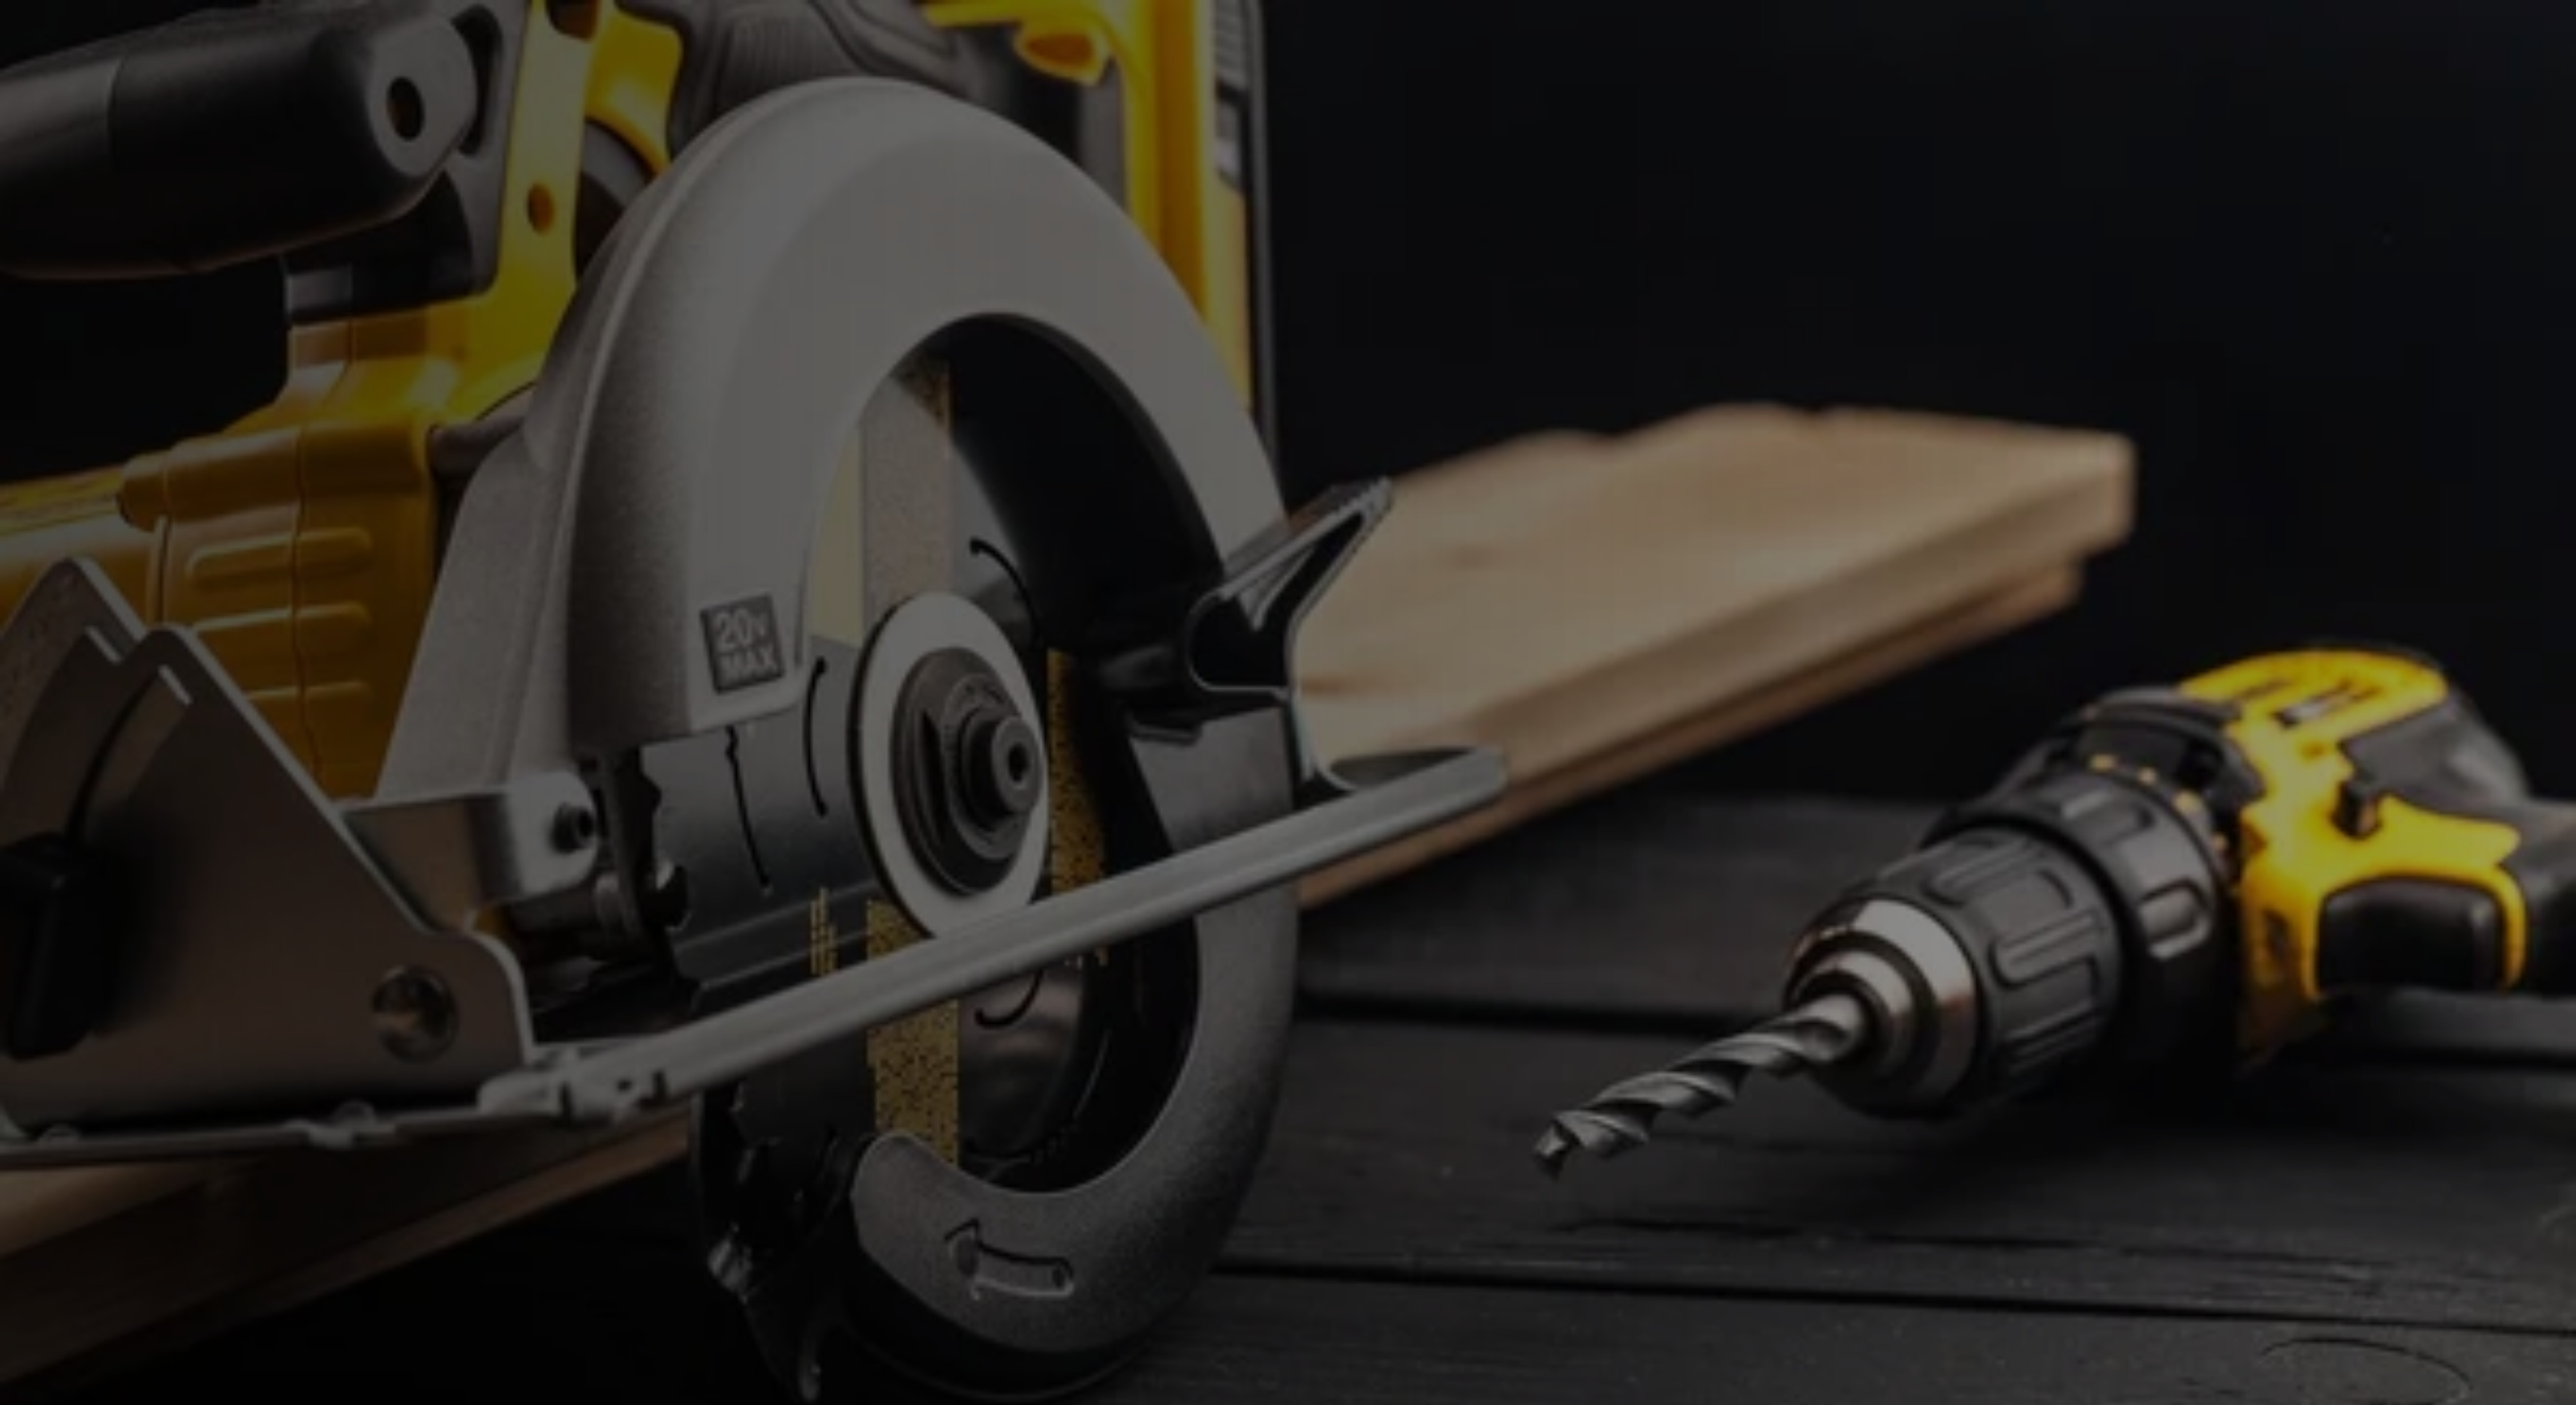
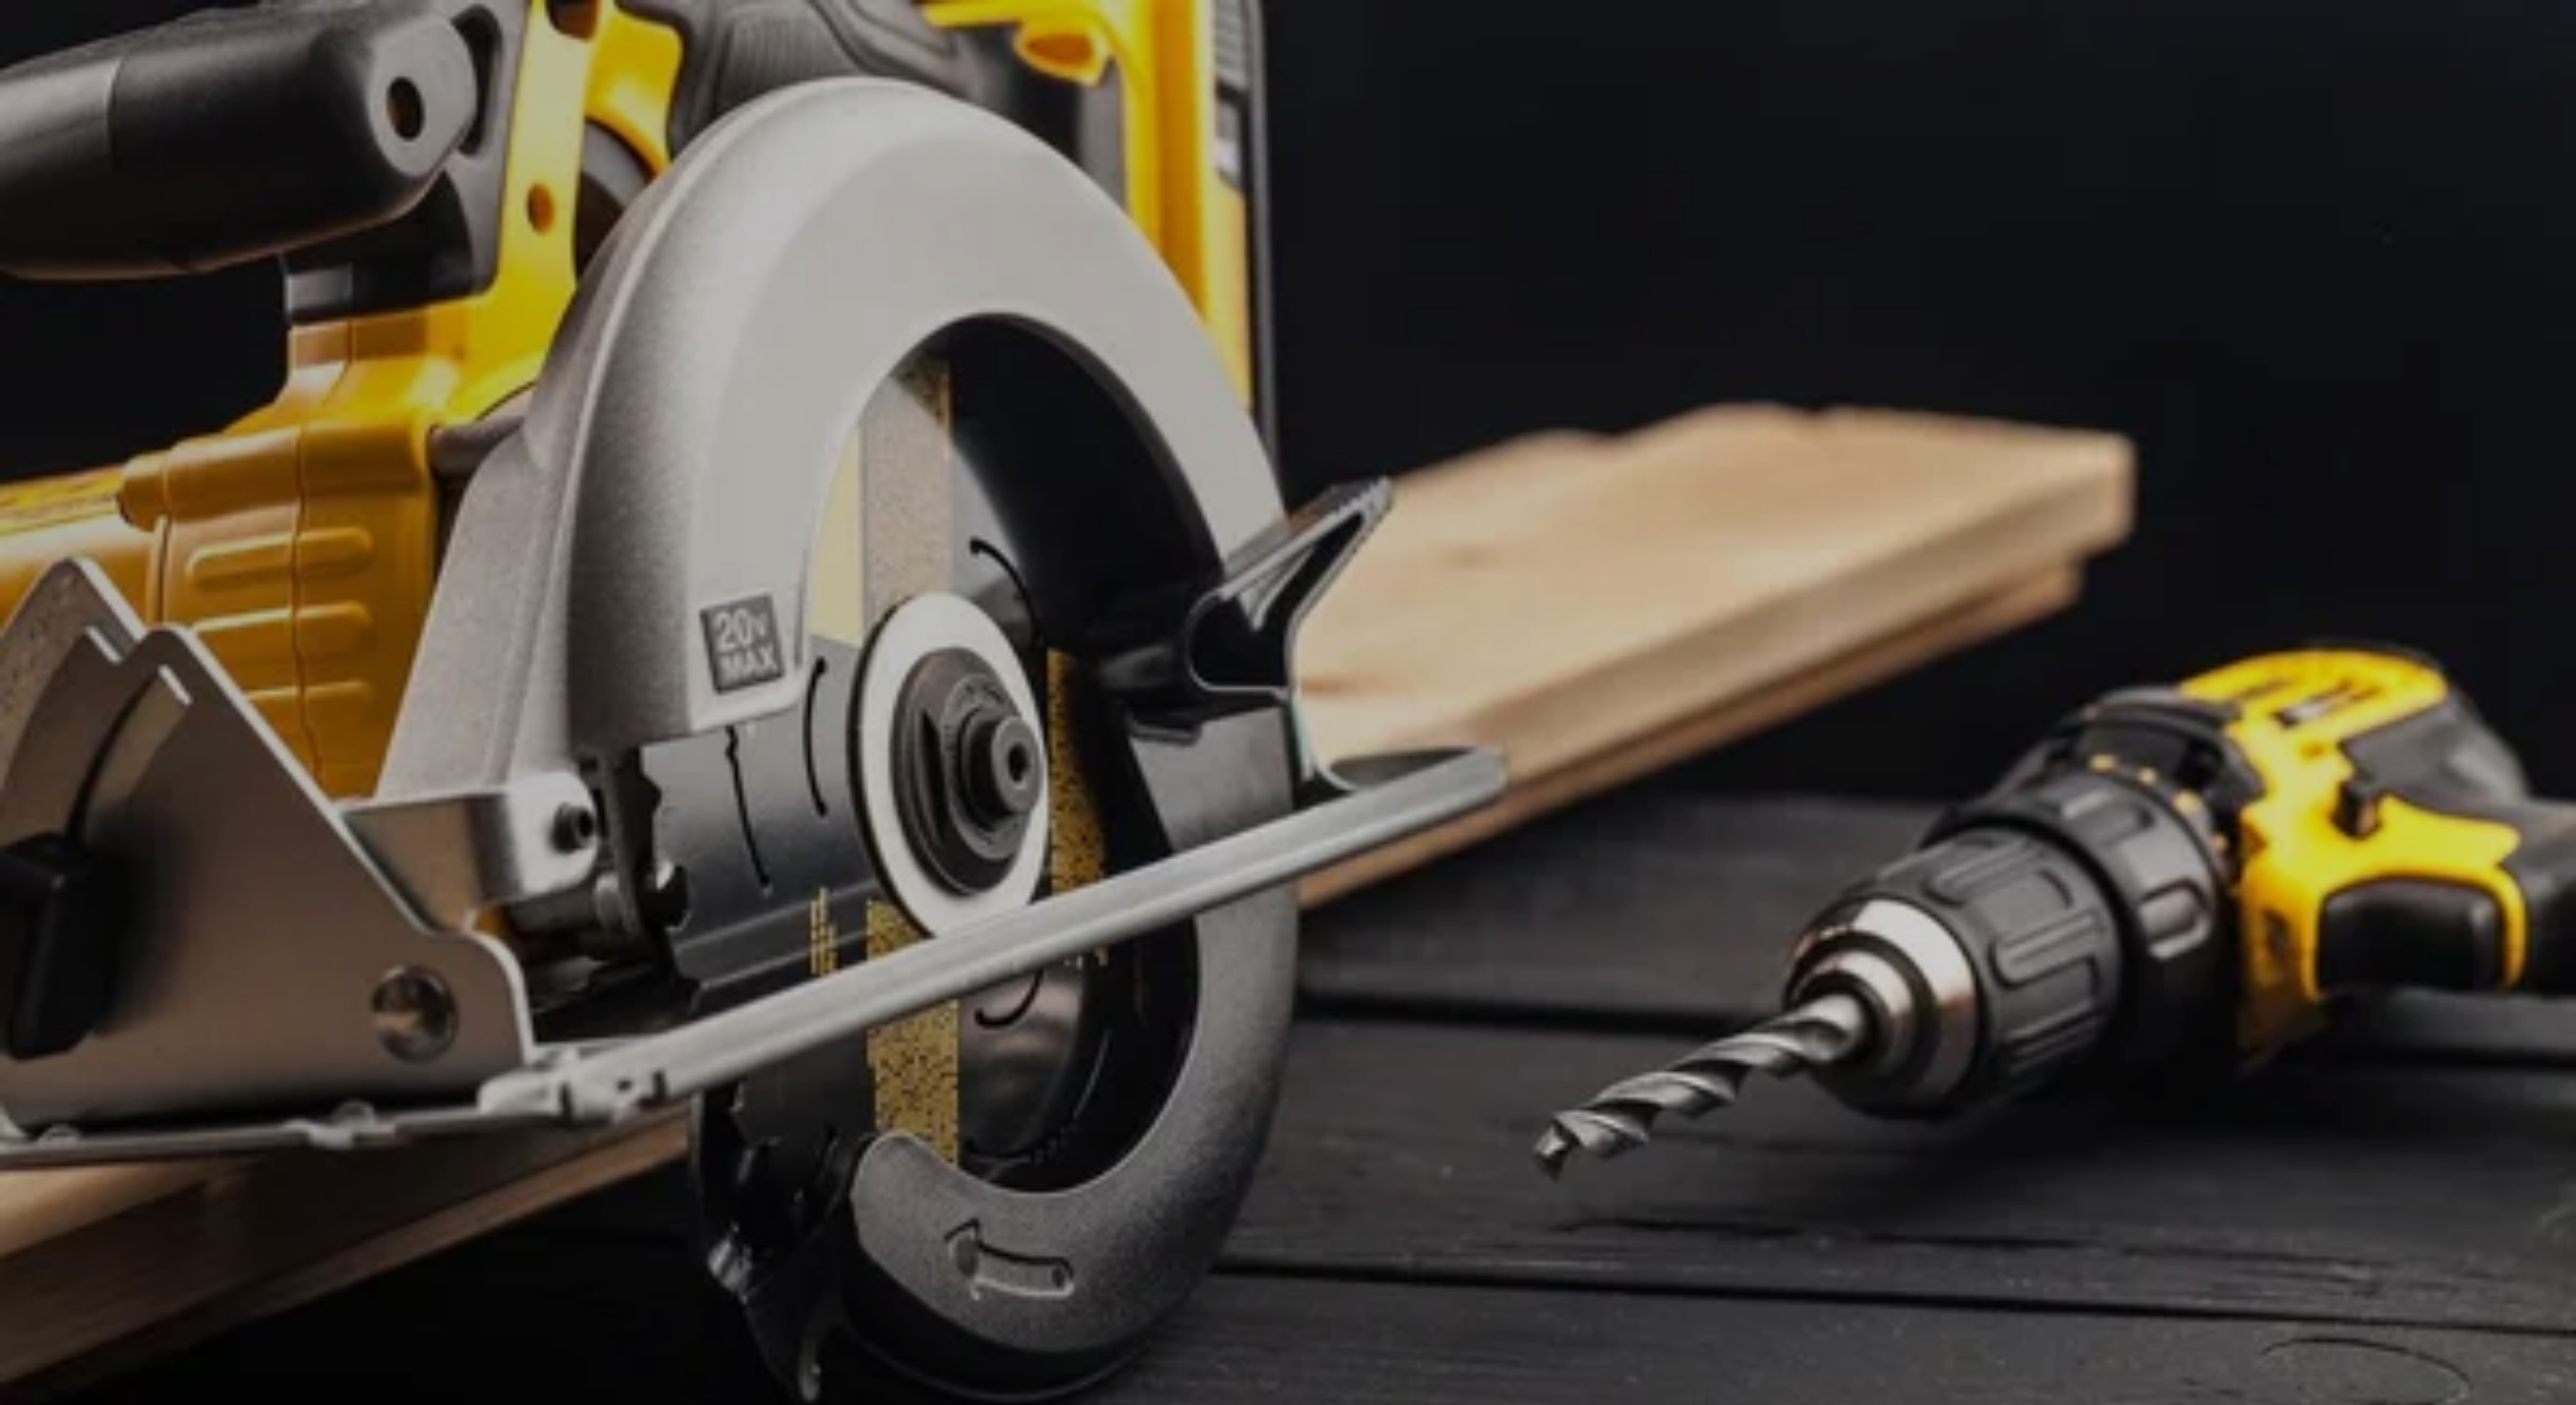
SORRY

diff --git a/css/style.css b/css/style.css
@@ -801,19 +801,19 @@ footer {
 
 .slider-img1 {
     background-image:
-        linear-gradient(rgba(0, 0, 0, 0.151), rgba(0, 0, 0, 0.532)),
+        linear-gradient(rgba(0, 0, 0, 0.116), rgba(0, 0, 0, 0.532)),
         url(../img/hero-img-1.webp);
 }
 
 .slider-img2 {
     background-image:
-        linear-gradient(rgba(0, 0, 0, 0.801), rgba(0, 0, 0, 0.6)),
+        linear-gradient(rgba(0, 0, 0, 0.514), rgba(0, 0, 0, 0.6)),
         url(../img/hero-img-2.jpg);
 }
 
 .slider-img3 {
     background-image:
-        linear-gradient(rgba(0, 0, 0, 0.632), rgba(0, 0, 0, 0.751)),
+        linear-gradient(rgba(0, 0, 0, 0.322), rgba(0, 0, 0, 0.751)),
         url(../img/hero-img-3.jpg);
 }
 
@@ -919,34 +919,34 @@ footer {
 
 
 .btn-1 {
-  position: relative;
-  padding: 12px 20px;
-  border: 2px solid #ff0000;
-  background: transparent;
-  color: #ff0000;
-  font-size: 16px;
-  cursor: pointer;
-  overflow: hidden;
+    position: relative;
+    padding: 12px 20px;
+    border: 2px solid #ff0000;
+    background: transparent;
+    color: #ff0000;
+    font-size: 16px;
+    cursor: pointer;
+    overflow: hidden;
 }
 
 .btn-1::before {
-  content: "";
-  position: absolute;
-  top: 0;
-  left: -100%;
-  width: 100%;
-  height: 100%;
-  background: #ff0000;
-  transition: 0.4s ease;
-  z-index: -1;
+    content: "";
+    position: absolute;
+    top: 0;
+    left: -100%;
+    width: 100%;
+    height: 100%;
+    background: #ff0000;
+    transition: 0.4s ease;
+    z-index: -1;
 }
 
 .btn-1:hover::before {
-  left: 0;
+    left: 0;
 }
 
 .btn-1:hover {
-  color: #fff;
+    color: #fff;
 }
 
 
